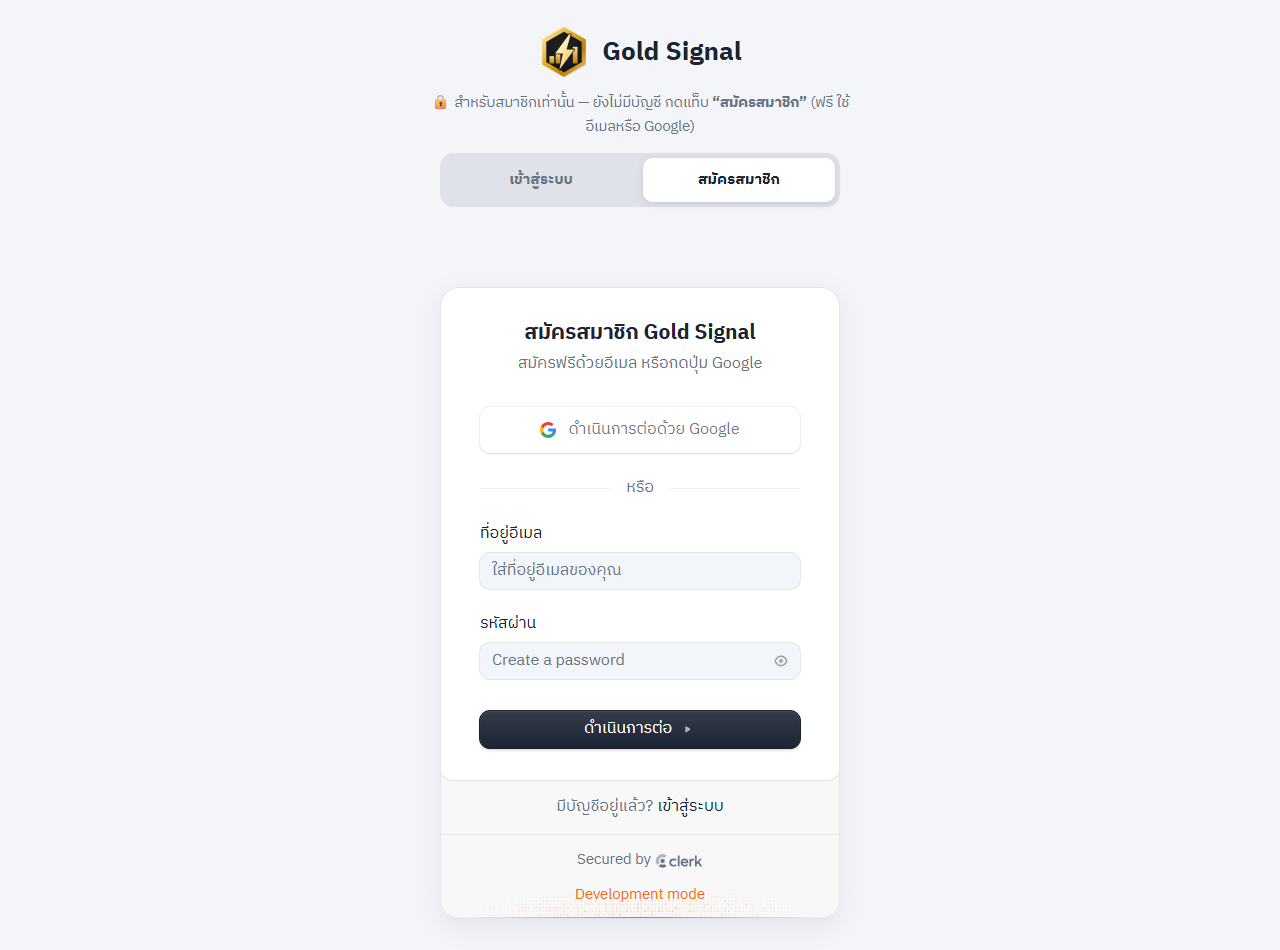
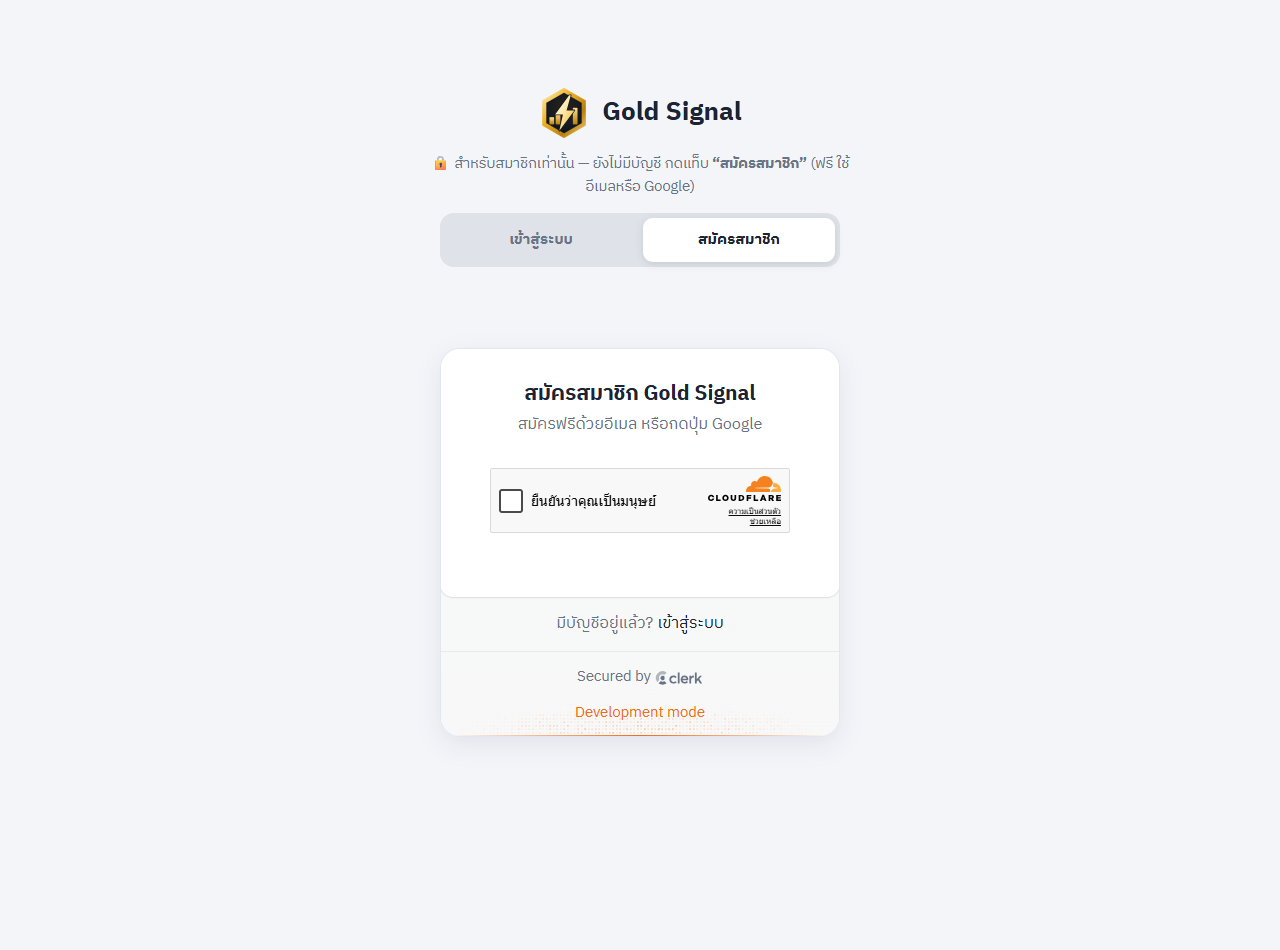
Compare page + Skill.md for the members-only login

diff --git a/compare.html b/compare.html
@@ -39,6 +39,18 @@
   <p class="lead">สิ่งที่เปลี่ยนในแต่ละรอบของ Gold Signal · <a href="./">กลับไปที่เว็บ</a></p>
 
   <section>
+    <h2>👤 สมาชิกเท่านั้น: สมัคร / เข้าสู่ระบบด้วยอีเมลหรือ Google</h2>
+    <p class="date">8 ต.ค. 2569 · ผู้ใช้เปลี่ยนจากระบบรหัสเป็น “ล็อกอินอีเมลแบบเดิม ต้องสมัครสมาชิกก่อนถึงจะเข้าใช้งานได้”</p>
+    <p>หน้า login.html มีแท็บ <b>เข้าสู่ระบบ | สมัครสมาชิก</b> (Clerk) — สมัครด้วยอีเมล + รหัสผ่าน ยืนยันด้วยโค้ด 6 หลักทางอีเมล (มีระบบกันบอท) หรือปุ่ม Google · ล็อกอินแล้วเซิร์ฟเวอร์ตรวจตั๋วของ Clerk แล้วออกคุกกี้ 14 วัน — ไม่ล็อกอินจะไม่ได้ไฟล์เว็บ/ข้อมูลเลย · หน้าบัญชีแสดงชื่อและอีเมล · ระบบรหัส GOLD-… ถูกลบทั้งหมด</p>
+    <div class="pair">
+      <div class="side old"><h3>🕰 แบบเก่า · ใส่รหัสจากผู้ดูแล</h3><img loading="lazy" src="compare/login-desktop.png" alt="ก่อน"></div>
+      <div class="side new"><h3>✨ เข้าสู่ระบบ</h3><img loading="lazy" src="compare/clerk-login.png" alt="เข้าสู่ระบบ"></div>
+      <div class="side new"><h3>✨ สมัครสมาชิก (มีระบบกันบอท)</h3><img loading="lazy" src="compare/clerk-signup.png" alt="สมัคร"></div>
+      <div class="side new"><h3>✨ หน้าบัญชีหลังเข้าสู่ระบบ</h3><img loading="lazy" src="compare/clerk-after.png" alt="บัญชี"></div>
+    </div>
+  </section>
+
+  <section>
     <h2>🔒 เข้าใช้งานด้วยรหัส แทนล็อกอิน Google</h2>
     <p class="date">8 ต.ค. 2569 · ผู้ใช้อยากให้คนที่เข้ามาต้องขอรหัสผ่านอีเมลก่อน กันคนอื่นเข้ามาใช้/ดึงผลงาน</p>
     <p>หน้าใหม่ <b>login.html</b>: ช่องใส่รหัส + ปุ่ม “📧 ขอรหัสผ่านทางอีเมล” (เปิดอีเมลถึงผู้ดูแลพร้อมข้อความ) · ตรวจรหัส<b>ฝั่งเซิร์ฟเวอร์</b> (Vercel middleware) — ไม่มีรหัสจะไม่ได้ไฟล์เว็บ โค้ด หรือข้อมูลสัญญาณเลย · หลายรหัส คนละรหัสต่อคน ยกเลิกรายคนได้ทันที · อยู่ในระบบได้ 30 วัน · เลิกใช้ Google และโหมดดูตัวอย่าง · แจ้งเตือนบนมือถือย้ายไปเก็บใน Vercel Blob</p>
